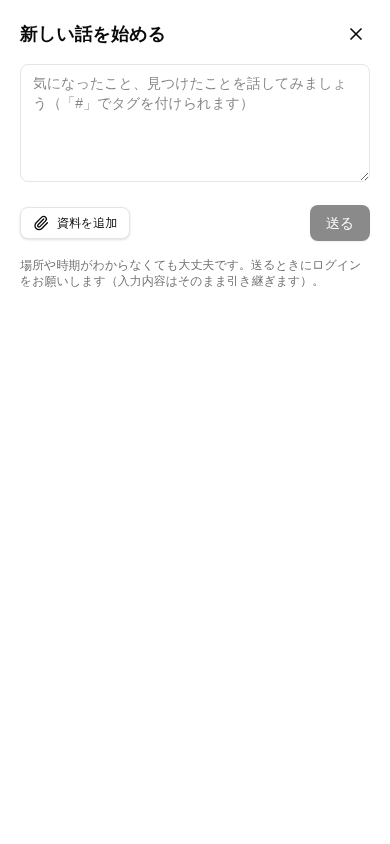
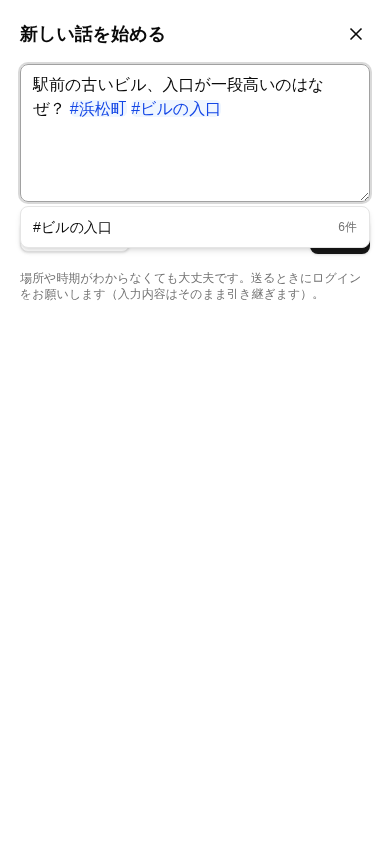
docs: タグの強調の修正に合わせてモックのスクリーンショットを撮り直す (#67)
Refs #67

Claude-Session: https://claude.ai/code/session_012qgDgbkAPaFVDecSLjT4CU

Changed region(s): [[0.0308, 0.0616, 0.9538, 0.3697]]

diff --git a/docs/ai/claude/mock/issue-67/README.md b/docs/ai/claude/mock/issue-67/README.md
@@ -6,9 +6,9 @@ Claude Code（Maker）が、Issue #67のモック反映（`apps/web`）をロー
 |---|---|
 | 01-pc-s01-header.png | C01（共通ヘッダー）の入口「話す」（ペンのアイコン＋ラベル） |
 | 02-pc-modal-tag-suggest.png | S01の上に開いたC27（新しい話を始める）のモーダル。「#」のあとのタグの補完（F04） |
-| 03-pc-modal-tag-chips.png | 文中の言葉からのタグのチップ（F04） |
+| 03-pc-modal-tag-highlight.png | 入力欄の中で本文中の#タグが強調されている状態。チップは出ない（Issue #67「判断：タグの入力と表示」で廃止） |
 | 04-pc-modal-login.png | 未ログインで「送る」→ C08（ログイン認証ダイアログ）。入力内容は保持 |
-| 05-pc-modal-after-post.png | ログイン後に投稿を確定し、投稿直後の案内（似たDiscoveryとわかってきたこと。F03のモック） |
+| 05-pc-modal-after-post.png | ログイン後に投稿を確定し、投稿直後の案内（似たDiscoveryとわかってきたこと。F03のモック）。投稿した本文の#タグは入力欄と同じ見た目 |
 | 06-pc-c07-menu.png | C07（ドロップダウンメニュー）。新規投稿の導線を外した |
 | 07-pc-s03-top.png | S03（Discovery詳細）。C25（わかってきたこと）の価値・説と種類ごとのリアクション |
 | 08-pc-s03-full.png | S03全体。Discoveryのタグ、C26（みんなの声）の返信先の引用・派生の目印・続きの投稿への注記 |
@@ -19,8 +19,17 @@ Claude Code（Maker）が、Issue #67のモック反映（`apps/web`）をロー
 | 13-pc-s02-zero.png | S02（Discovery探索一覧）で範囲を拡大しても0件のときの「話す」の案内 |
 | 14-pc-s02-zero-modal.png | 0件時の「話す」からモーダルを開いた状態 |
 | 15-sp-s01-header.png | モバイルのヘッダーの「話す」 |
-| 16-sp-modal-sheet.png | モバイルの全画面のシート |
+| 16-sp-modal-sheet.png | モバイルの全画面のシート（本文中の#タグの強調） |
 | 17-sp-s03-full.png | モバイルのS03全体 |
 | 18-pc-posts-new-direct.png | `/posts/new`を直接開いた場合（背景の画面なし） |
+| 19-sp-modal-long-scrolled.png | スマホ幅で長文（長いURLを含む）を入力し、入力欄をスクロールした状態。強調の位置がずれない |
+| 20-pc-s03-posts-and-input.png | S03の声の一覧の#タグと、みんなの声の入力欄の#タグが同じ見た目 |
+| 21-pc-input-focus.png | 入力欄のフォーカス時の枠 |
+| 22-pc-input-dark.png | ダークモード（`html.dark`）での強調 |
+| 23-pc-input-ime-composing.png | 日本語の変換中（CDPの`Input.imeSetComposition`で再現）。変換中は強調の層を隠し、textareaの文字をそのまま表示するため、二重に見えない |
+| 24-sp-input-placeholder.png | 空のときのプレースホルダー |
+| 25-sp-input-long-url.png | スマホ幅で空白のない長いURLが折り返された状態 |
+
+2026-09-25追記：タグのチップを廃止し、本文中の#タグを入力欄と投稿後で同じ見た目で強調する修正（Issue #67「判断：タグの入力と表示」）に合わせ、02・03・05・08・09・16・17を撮り直し、19〜25を追加した。
 
 確認した動作：他の画面から「話す」で開くとURLは`/posts/new`になりモーダルで表示される／モーダル内のリンクで移動するとモーダルが閉じる／Escで開く前の画面へ戻る／旧URL（`/contributions/new`・`/contributions/new/confirm`・`/contributions/[id]/edit`）はリダイレクトされる／ブラウザのコンソールエラーなし。
